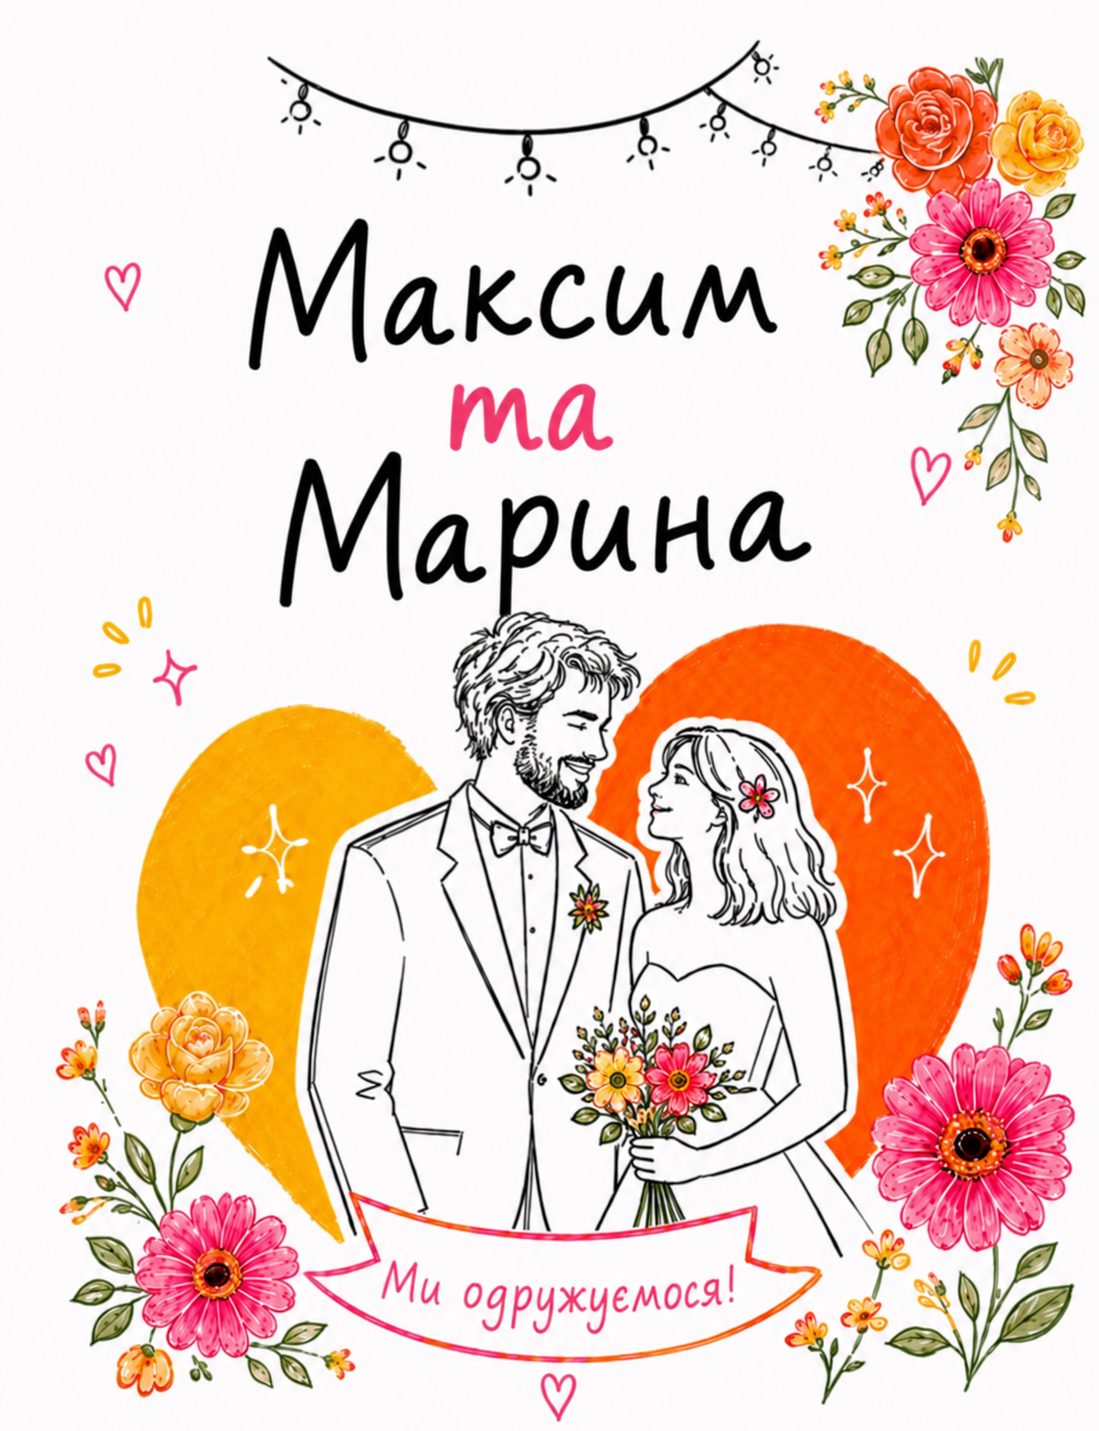
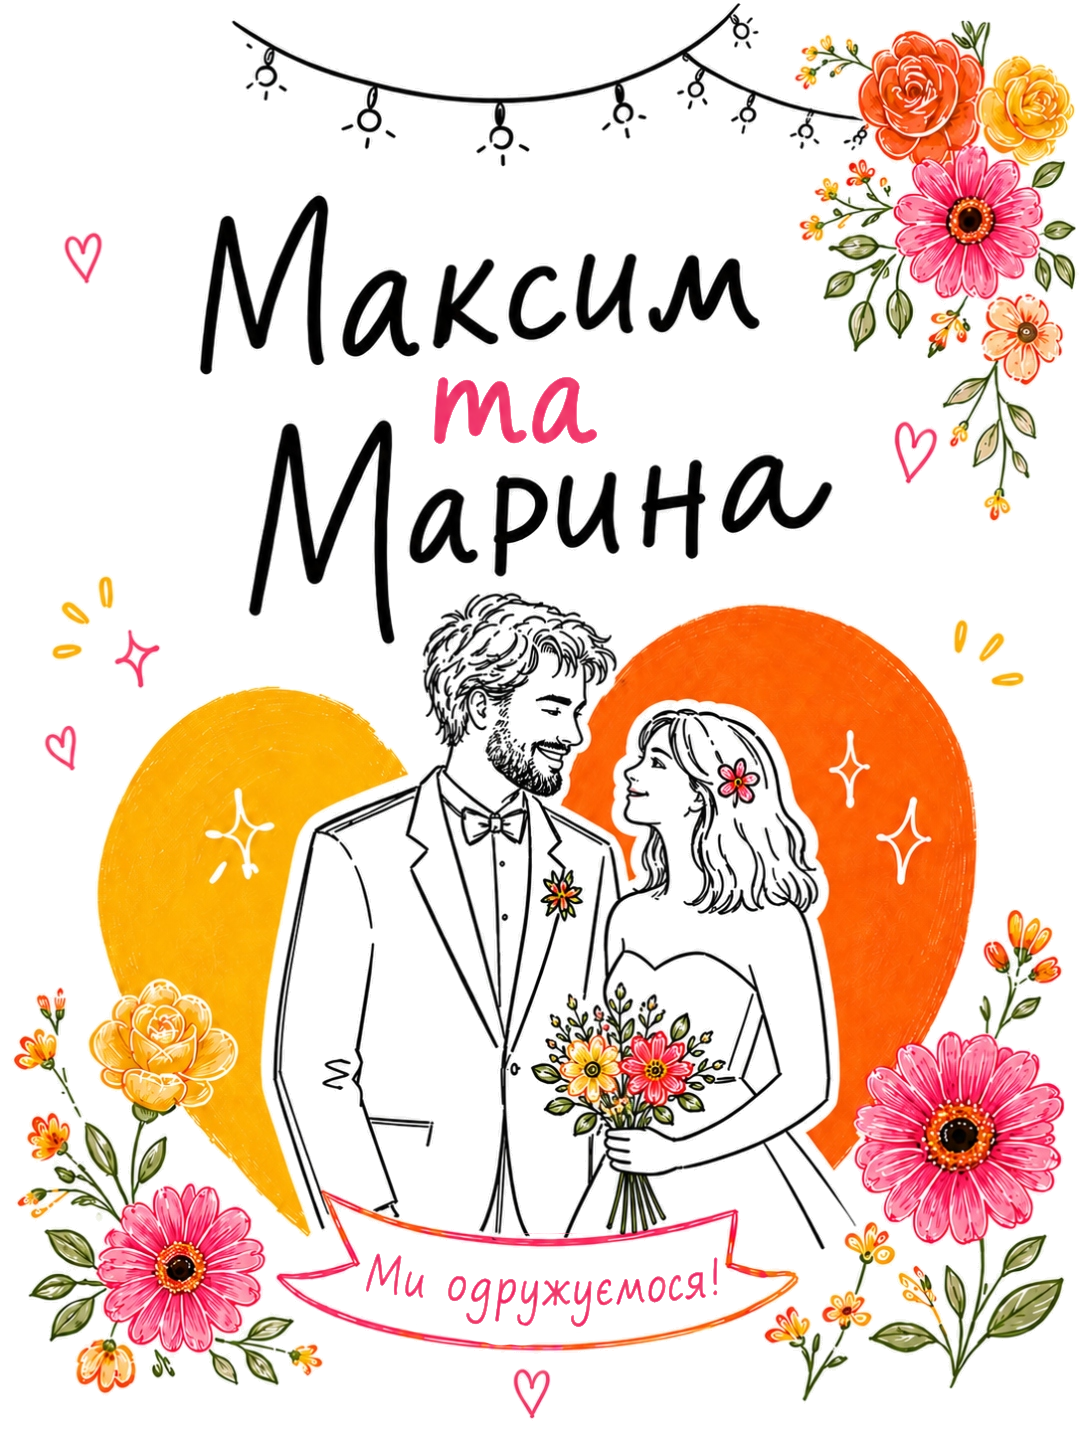
Upload latest workspace changes

diff --git a/src/content.ts b/src/content.ts
@@ -90,7 +90,7 @@ export const contentByLocale: Record<Locale, SiteContent> = {
     wishes: {
       title: 'Пожелания',
       message1: 'Самым ценным подарком для нас станет ваше присутствие в этот день',
-      message2: 'Если вы захотите поздравить нас еще и подарком, будем благодарны за вклад в бюджет нашей молодой семьи, который поможет воплотить наши мечты'
+      message2: 'Если вы планируете поздравить нас еще и подарком, будем благодарны за вклад в бюджет нашей молодой семьи, который поможет воплотить наши мечты'
     },
     rsvp: {
       title: 'Анкета',
@@ -101,8 +101,8 @@ export const contentByLocale: Record<Locale, SiteContent> = {
       attendanceYes: 'Обязательно буду',
       attendanceNo: 'К сожалению, не получится',
       mainCourseLegend: 'Какое основное блюдо вы предпочитаете?',
-      courseSalmon: 'Филе лосося в травяной корочке',
-      courseBeef: 'Стейк из говядины Ball Tip',
+      courseSalmon: 'Лосось (Herb-Crusted Salmon)',
+      courseBeef: 'Говядина (Beef Ball Tip Steak)',
       courseVegetarian: 'Вегетарианское блюдо',
       submitIdle: 'Отправить',
       submitLoading: 'Отправка...',
@@ -137,7 +137,7 @@ export const contentByLocale: Record<Locale, SiteContent> = {
     },
     dressCode: {
       title: 'Dress Code',
-      intro: 'We want this day to be filled with warmth and joy. We would be delighted if you could support the atmosphere of our celebration by choosing an outfit in our color palette',
+      intro: 'We wish for this day to be full of warmth and joy, and we would greatly appreciate it if you could reflect our celebration’s atmosphere by wearing an outfit in our color palette',
       note: '',
       inspirationButton: 'Outfit Inspiration',
       colors: dressCodeColors
@@ -200,7 +200,7 @@ export const contentByLocale: Record<Locale, SiteContent> = {
     wishes: {
       title: 'Побажання',
       message1: 'Найціннішим подарунком для нас буде ваша присутність у цей особливий день.',
-      message2: 'Якщо ви також захочете привітати нас подарунком, будемо щиро вдячні за внесок у бюджет нашої молодої сім\'ї, який допоможе здійснити наші мрії'
+      message2: 'Якщо ви також плануєте привітати нас подарунком, будемо щиро вдячні за внесок у бюджет нашої молодої сім\'ї, який допоможе здійснити наші мрії'
     },
     rsvp: {
       title: 'Анкета',
@@ -211,8 +211,8 @@ export const contentByLocale: Record<Locale, SiteContent> = {
       attendanceYes: 'Обовʼязково буду',
       attendanceNo: 'На жаль, не зможу',
       mainCourseLegend: 'Якій основній страві ви надаєте перевагу?',
-      courseSalmon: 'Філе лосося у трав\'яній скоринці',
-      courseBeef: 'Стейк із яловичини Ball Tip',
+      courseSalmon: 'Лосось (Herb-Crusted Salmon)',
+      courseBeef: 'Яловичина (Beef Ball Tip Steak)',
       courseVegetarian: 'Вегетаріанська страва',
       submitIdle: 'Надіслати',
       submitLoading: 'Надсилання...',